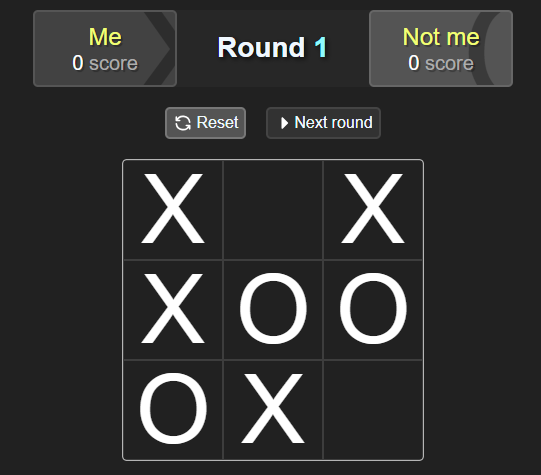
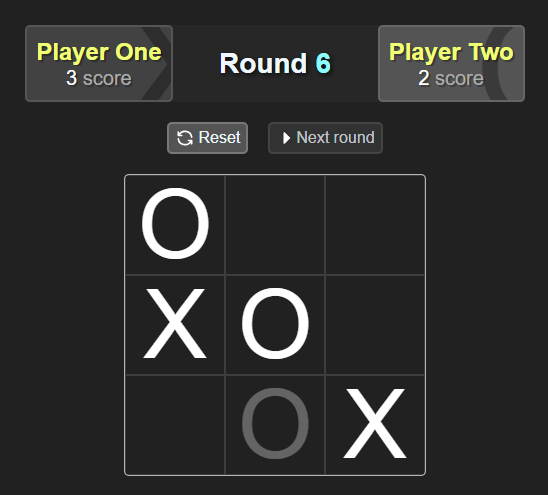
Add CSS improvements

Changed region(s): [[0.0296, 0.0, 0.976, 0.9726], [0.3845, 0.0589, 0.6211, 0.1474]]

diff --git a/style.css b/style.css
@@ -29,6 +29,9 @@ html {
 }
 .round {
   color: aliceblue;
+  width: 125px;
+  text-wrap: nowrap;
+  text-align: center;
   text-shadow: 2px 2px 5px #000000bb;
   font-weight: 600;
   font-size: 1.75rem;
@@ -37,7 +40,7 @@ html {
   color: #8efbff;
 }
 .player-card {
-  width: 9rem;
+  width: 9.2rem;
   height: fit-content;
   position: relative;
   text-align: center;
@@ -57,7 +60,7 @@ html {
   position: absolute;
   display: flex;
   top: -50px;
-  left: 90px;
+  left: 95px;
   font-size: 10rem;
   color: #00000050;
   text-shadow: none;
@@ -69,6 +72,7 @@ html {
   text-shadow: 2px 2px 1px #00000050;
   background: none;
   font-size: 1.5rem;
+  font-weight: 600;
   color: #f1ff75;
 }
 .player-score {
@@ -120,6 +124,7 @@ html {
 }
 .game-buttons > button:disabled {
   background: #323232;
+  color: #f0f8ffbb;
   border: 2px solid #444;
   cursor: default;
 }

diff --git a/README.md b/README.md
@@ -2,8 +2,6 @@
 
 Following [The Odin Project](https://www.theodinproject.com/).
 
-A classic game of tic-tac-toe with rounds and the ability to change nicknames
+A classic game of tic-tac-toe with rounds and the ability to change nicknames.
 
 ![alt text](image.png)
-
-![alt text](image-1.png)
